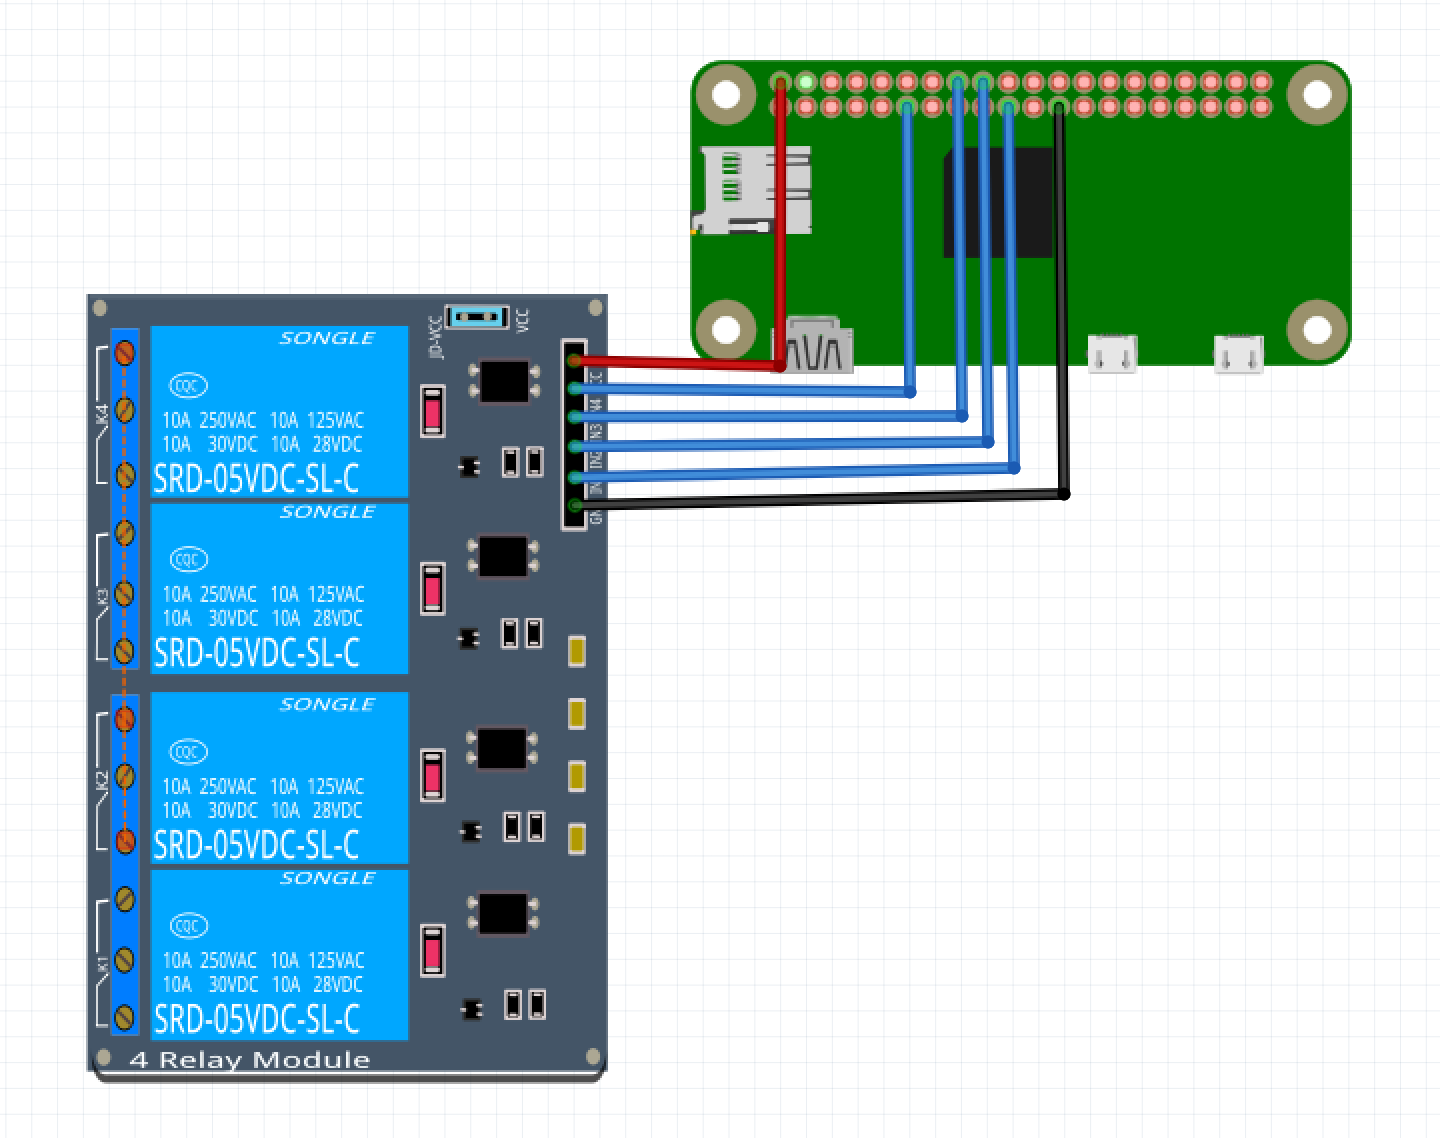
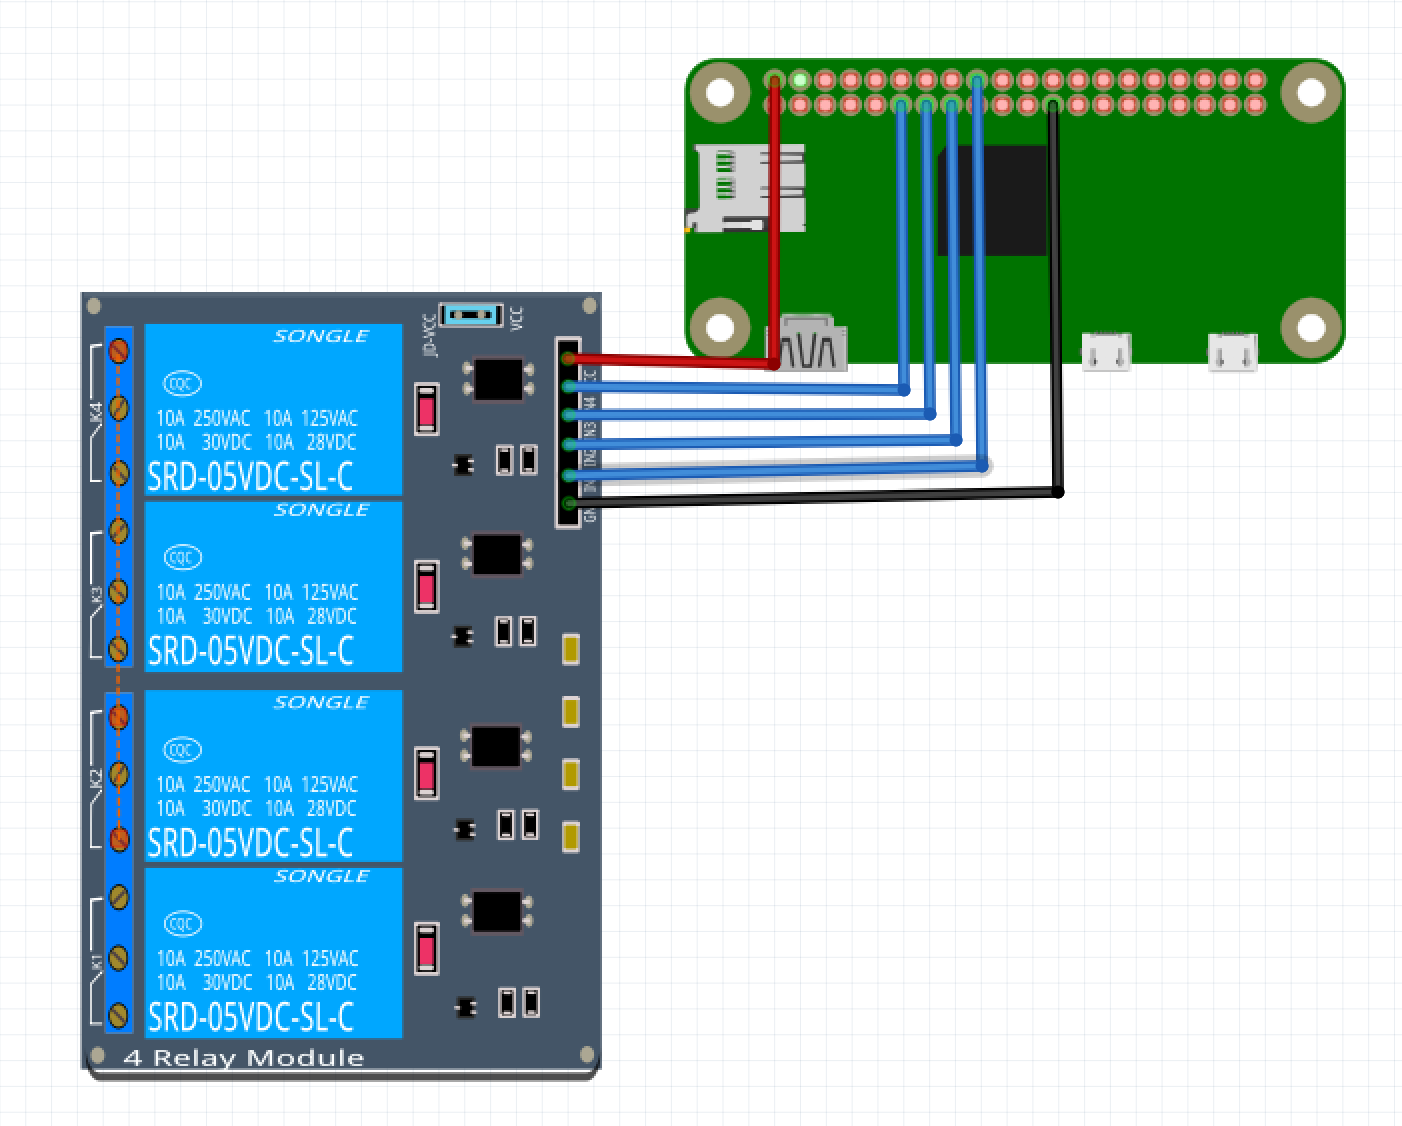
more updates

Changed region(s): [[0.0307, 0.0311, 0.9815, 0.9636]]

diff --git a/content/build-guides/01_power.md b/content/build-guides/01_power.md
@@ -7,12 +7,15 @@ highlight: true
 weight: 1
 ---
 
-Automated power strips allow on-demand and timer based control of AC outlets (110v or 220v). They are one of the easiest to build yet most useful controllers using reef-pi. Timers can be used to turn on/off light or skimmer daily. On-demand controls allow turning off equipments like ATO and return pump during water changes. It also involve minimal electronics and configuration among all other controller based on reef-pi. This build guide will go through step by step process of building a four outlet power strip controller based on reef-pi.
+Automated power strips allow on-demand and timer based control of AC outlets (110v or 220v). They are one of the easiest to build yet most useful controllers using reef-pi. For example: a power controller can turn on/off light or skimmer daily as well as allow on-deman controls like switching off ATO and return pump during water changes. This guide will go through step by step process of building a four outlet power controller.
 
 ### Things to consider
 
-- Relay types: Controlling high AC voltahes via Raspbwrry Pi involves relays. Relays can be opto-couplers, mechanical or solid state. Mechanical relays are cheapest, optocouplers are safest and expensive. Solid state relays are somewhere in the middle, safer and last longer than mechanical relays and cheaper, readily available that opto coupler.
-- Number of channels: The number of channels in a relay board determines how many AC connections can be controller. Since we are building a 4 outlet powerstrip, we'll go with a 4 channel ssd relay. We'll need one GPIO pin of Raspberry Pi for each channel on the relay. It is possible to control around 18 channel relays using raspberry pi alone (it can be extend to thousands using an IO expander).
+- Which relay to use? Controlling high AC voltages via Raspbwrry Pi involves relays. Relays can be opto-couplers, mechanical or solid state. Mechanical relays are cheapest, optocouplers are safest and expensive. Solid state relays are somewhere in the middle, safer and last longer than mechanical relays and cheaper, readily available that opto coupler.
+
+- Relay capacity: Almost all relays are rated to work with a voltage and current range. Most mechanical relays are raterd for 10 amp, 240volt ac, while solid state relays are generally rater for 240volt ac, 2 amp. Depending upon what type of equipment you will be powering, choose appropriate relays. Equipments are generally rated with watts, and watt = volt x ampere. i.e. a 100 watt heater will rquire at least 1 amp relay to be powered safely by 110volt ac.
+
+- Number of relay channels: The number of channels in a relay board determines how many AC connections can be controller. Since we are building a 4 outlet powerstrip, we'll go with a 4 channel ssd relay. We'll need one GPIO pin of Raspberry Pi for each channel on the relay. It is possible to control around 18 channel relays using raspberry pi alone (it can be extend to thousands using an IO expander).
 
 
 ### Bill of Materials
@@ -39,21 +42,22 @@ Follow reef-pi installation [guide](http://reef-pi.com/general-guides/07_install
 
 ```yaml
 outlets:
-	AC1:
-		pin: 4
+  AC1:
+    pin: 17
   AC2:
-    pin: 18
+    pin: 27
   AC3:
-    pin: 14
+    pin: 22
   AC4:
-    pin:
+    pin: 24
 equipments:
-   Heater: AC0
-   Return: AC1
-   Light: 
-  
+   Heater: AC1
+   Return: AC2
+   Light:  AC3
+   Filter: AC4
 ```
-Note: the pin number represent the GPIO Pin number, not their position on the Raspberry Pi.
+
+Note: the pin number represent the GPIO Pin number, not their position on the Raspberry Pi. Refer Raspberry Pi pinout [diagram](http://www.jameco.com/Jameco/workshop/circuitnotes/raspberry_pi_circuit_note_fig2.jpg) for GPIO numbers.
 
 
 - Restart reef-pi
@@ -61,11 +65,26 @@ Note: the pin number represent the GPIO Pin number, not their position on the Ra
 ```
 sudo systemctl restart reef-pi.service
 ```
-
+Thats it, you should be able to access reef-pi user interface from the browser and control all four equipments.
 
 ### Usage
 
 #### Controlling equipments on-demand
 
+Any equipment specified in the configurartion file can be switched on or off any time using reef-pi web interface. Use the equipment tab to navigate to the list of equipments and click on the on/off button to switch the equipment on/off. Every equipment should have a dedicated button indicating the equipment's real time state.
+
+![on-demand ui](/img/power_strip/on-demand.png)
+
 #### Controlling equipments using timers
 
+In the following example we are setting up heater to start at night 10:00 PM and stop at morning 6:00 AM. Use the "Jobs" tab to define two jobs. Each job represent a period action reef-pi takes. 
+
+The first job starts the heater at night. reef-pi allowes us to specify which equipment to take action against, time details (day of the month, hour, minute, second etc) and the action (on or off). Notice "\*" is used to denote every day of the month.
+
+![timer start](/img/power_strip/timer_start.png)
+
+And another job to stop the heater every morning 6 AM.
+
+![timer start](/img/power_strip/timer_stop.png)
+
+reef-pi uses cron style specification for denoting time schedule, this allows much more elaborate way of specifying schedules, check the [timer]() guide for details.

diff --git a/content/general-guides/07_install.md b/content/general-guides/07_install.md
@@ -7,18 +7,60 @@ highlight: true
 weight: 7
 ---
 
+This guide will walk you throug the process of installing and configuring reef-pi in a new Raspberry Pi with a new microSD card. The process involves three main part, first we have to prepare the micorsd card for Raspberry Pi, then start Raspberry Pi with the microSD card and configure it for reef-pi usage, and then finally install and configuration of reef-pi on the freshly prepared Raspberry Pi. This guide assume prior familiarity with computers, no programming knowledge is required.
+
 ### Prepare Raspberry Pi image
 
-- Download raspbian image
-- Write raspbian image to micro SD card
+We recommend a microSD card of Class10 and atleast 8Gb capacity for reef-pi. reef-pi is tested on raspbian, but it should work on most other linux OS, on Raspberry Pi. Follow the official raspberry pi guide for details instructions:
+- [Download and write raspbian image to micro SD card](https://www.raspberrypi.org/documentation/installation/installing-images/)
 
 ### Configure raspberry pi
 
-- Configure wifi
-- Update system
-- Change password
-- Enable i2c,onewire,spi,uart
-- Configure and enable ssh
+Oncei raspbian image is written on microSD card, plug it in Raspberry Pi and power it. Once started configure following things at leat, for optimal performance of reef-pi.
+
+- Configure wifi: Enabling wifi or ethernet based internet connection allows reef-pi to be accessible from any web browser (mobile, tablet or computers). Note, this is not a manadatory requirement for running wifi. It is just a convenience.
+
+Next set of steps assume you are working on terminal:
+- Update system: Perform a system update with following command. Note: if internet is not enabled, this will not work, and should be skipped.
+```
+sudo apt-get update -y
+sudo apt-get upgrade -y
+```
+
+- Change password: Raspbian images comes with stock password for the "pi" user. Reset it to something unique and stronger
+
+```
+passwd
+```
+- Enable i2c,onewire,spi,uart: Different types of electronics in reef-pi requires a number of kernel modules and device drivers to be loaded in kernel. Edit `/boot/config.txt` to load these modules
+
+```
+dtparam=i2c_arm=on
+dtparam=spi=on
+dtparam=audio=on
+enable_uart=1
+dtoverlay=w1-gpio
+```
+
+- Configure and enable ssh: ssh is used to remotely control and troubleshoot the Raspberry Pi directly.
+
+```
+sudo systemctl start ssh.service
+sudo systemctl enable ssh.service
+```
+- Set time and date: Configure raspbian to use network time to synchronize its date & time information. Also set specific locale, to reflect the local time instead of UTC
+
+```
+sudo systemctl start ntp.service
+sudo systemctl enable ntp.service
+sudo dpkg-reconfigure locales
+```
+
+Finally, reboot Raspberry Pi to apply all the kernel configuration changes
+
+```
+sudo reboot
+```
 
 ### Install reef-pi
 
@@ -41,5 +83,3 @@ systemctl status reef-pi.service
 ```yaml
 address: 0.0.0.0:8080
 ```
-- Define outlets
-
